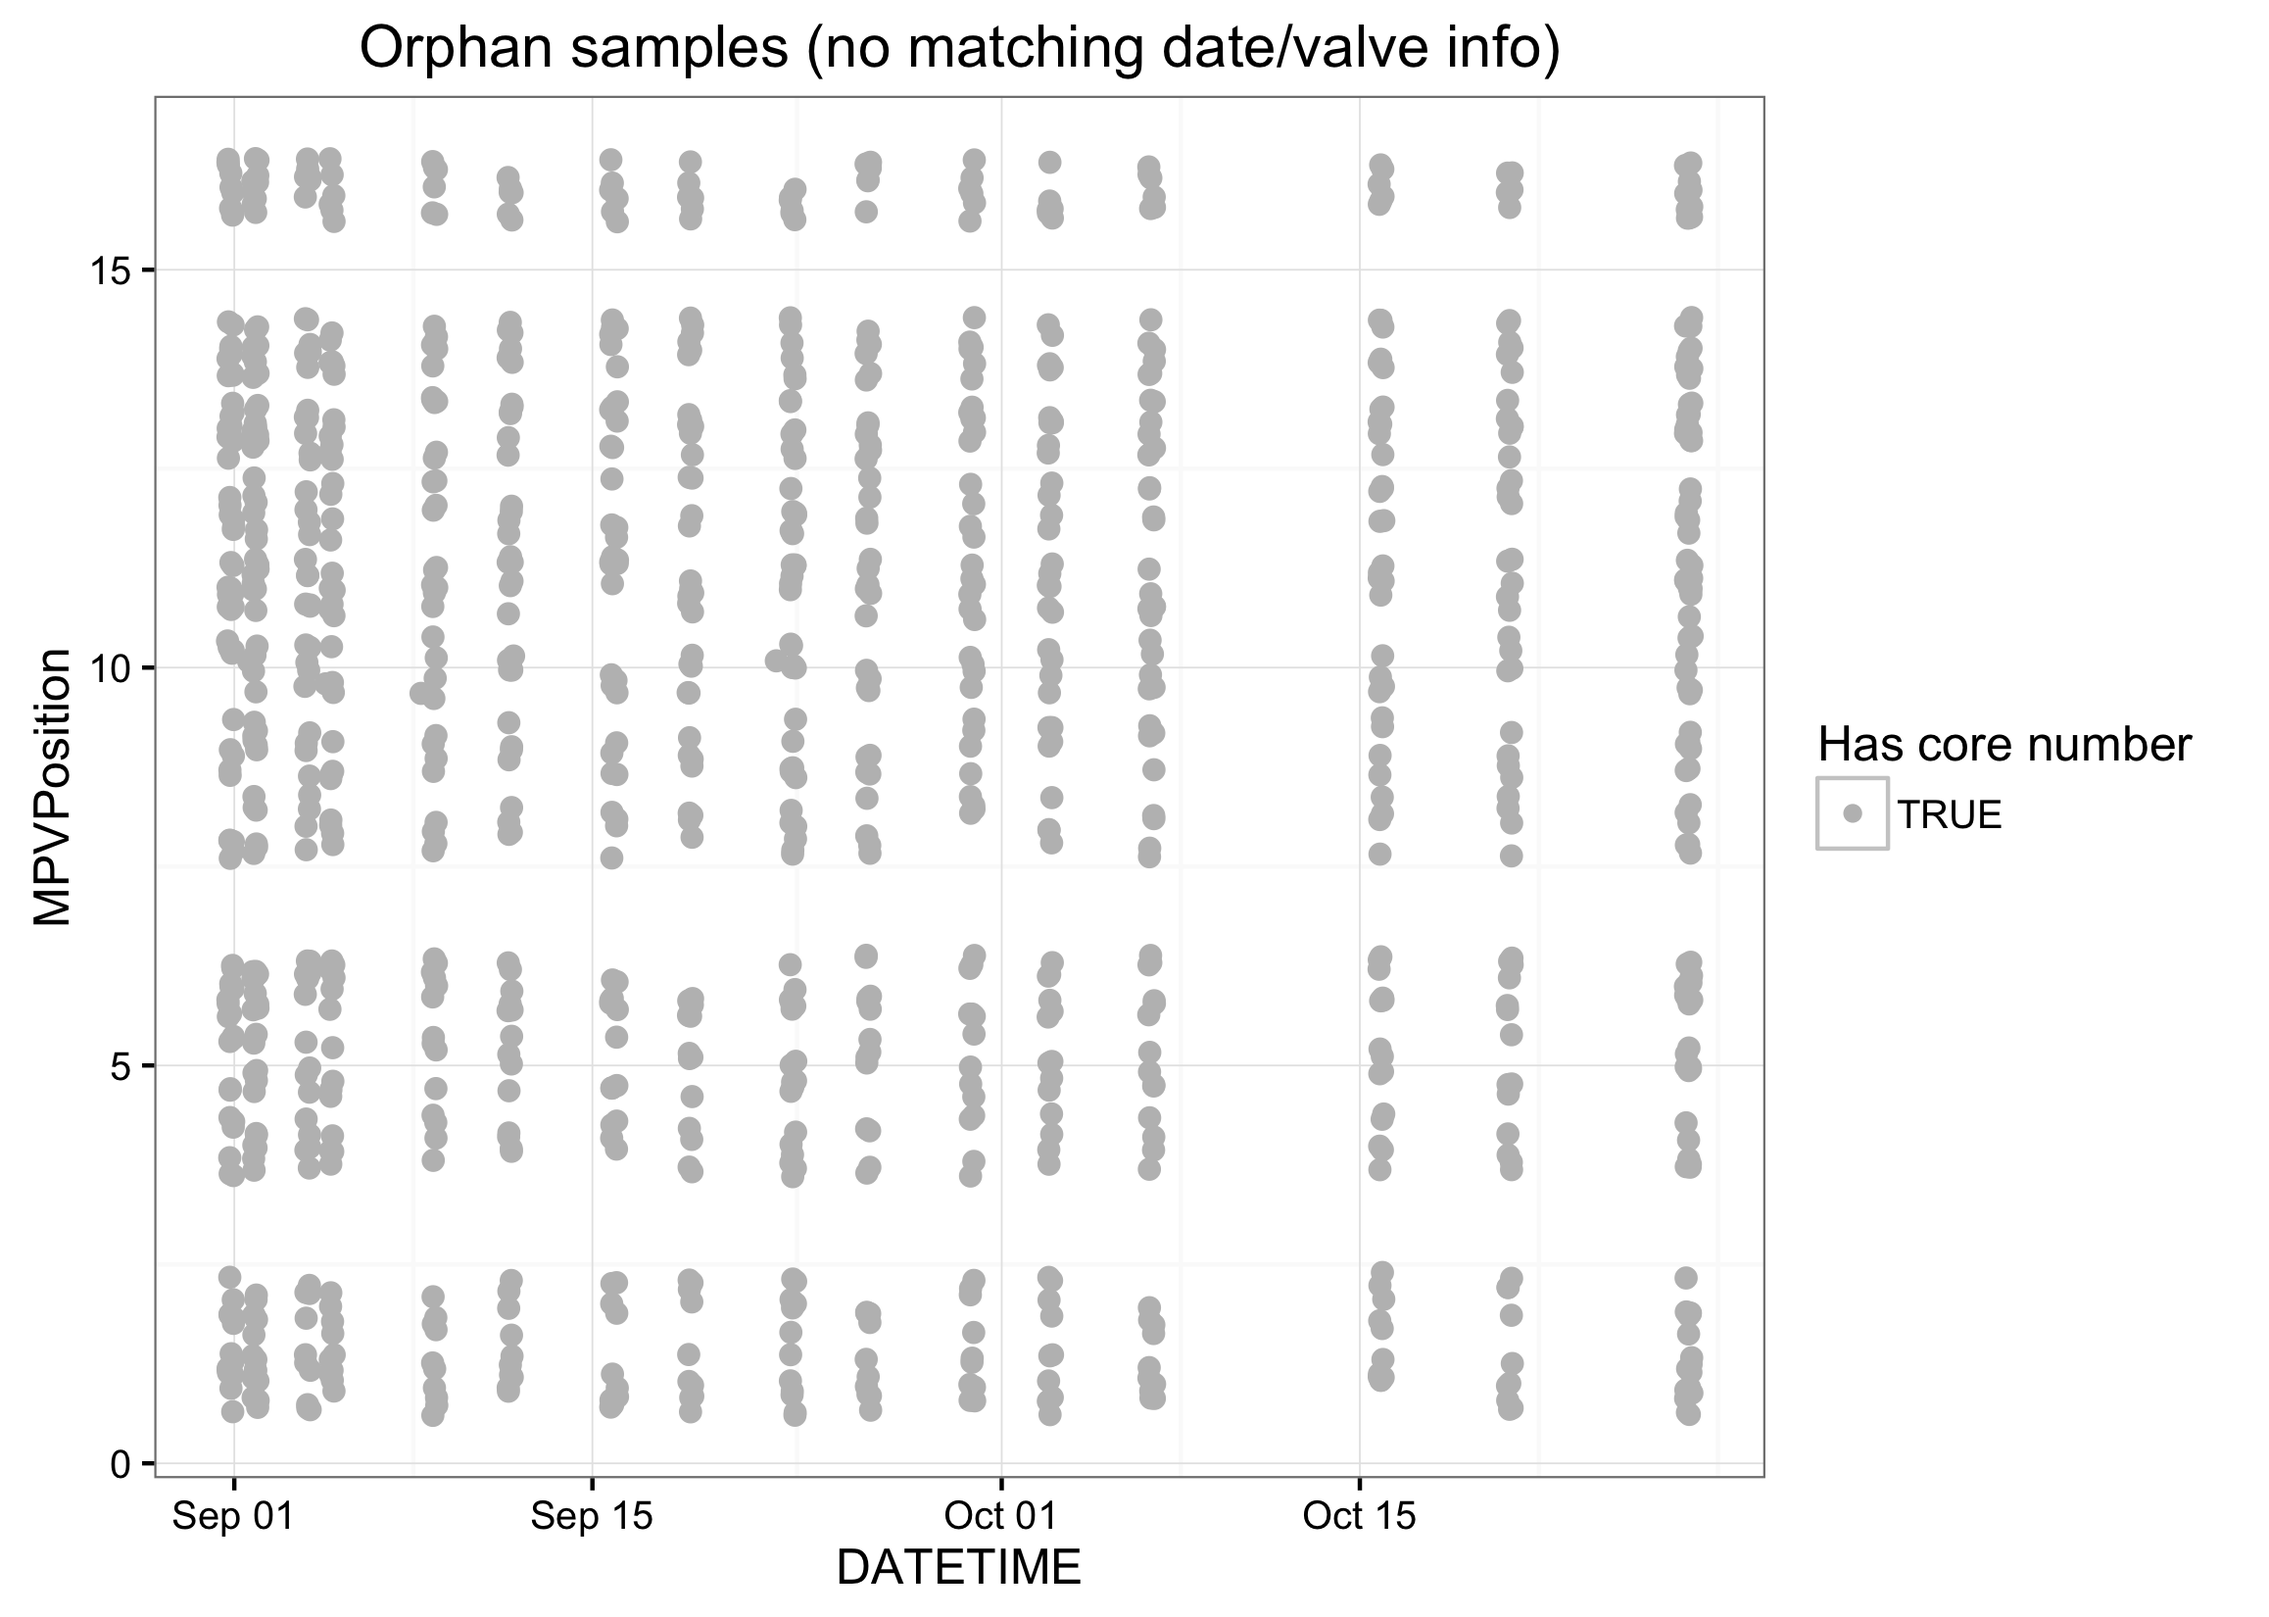
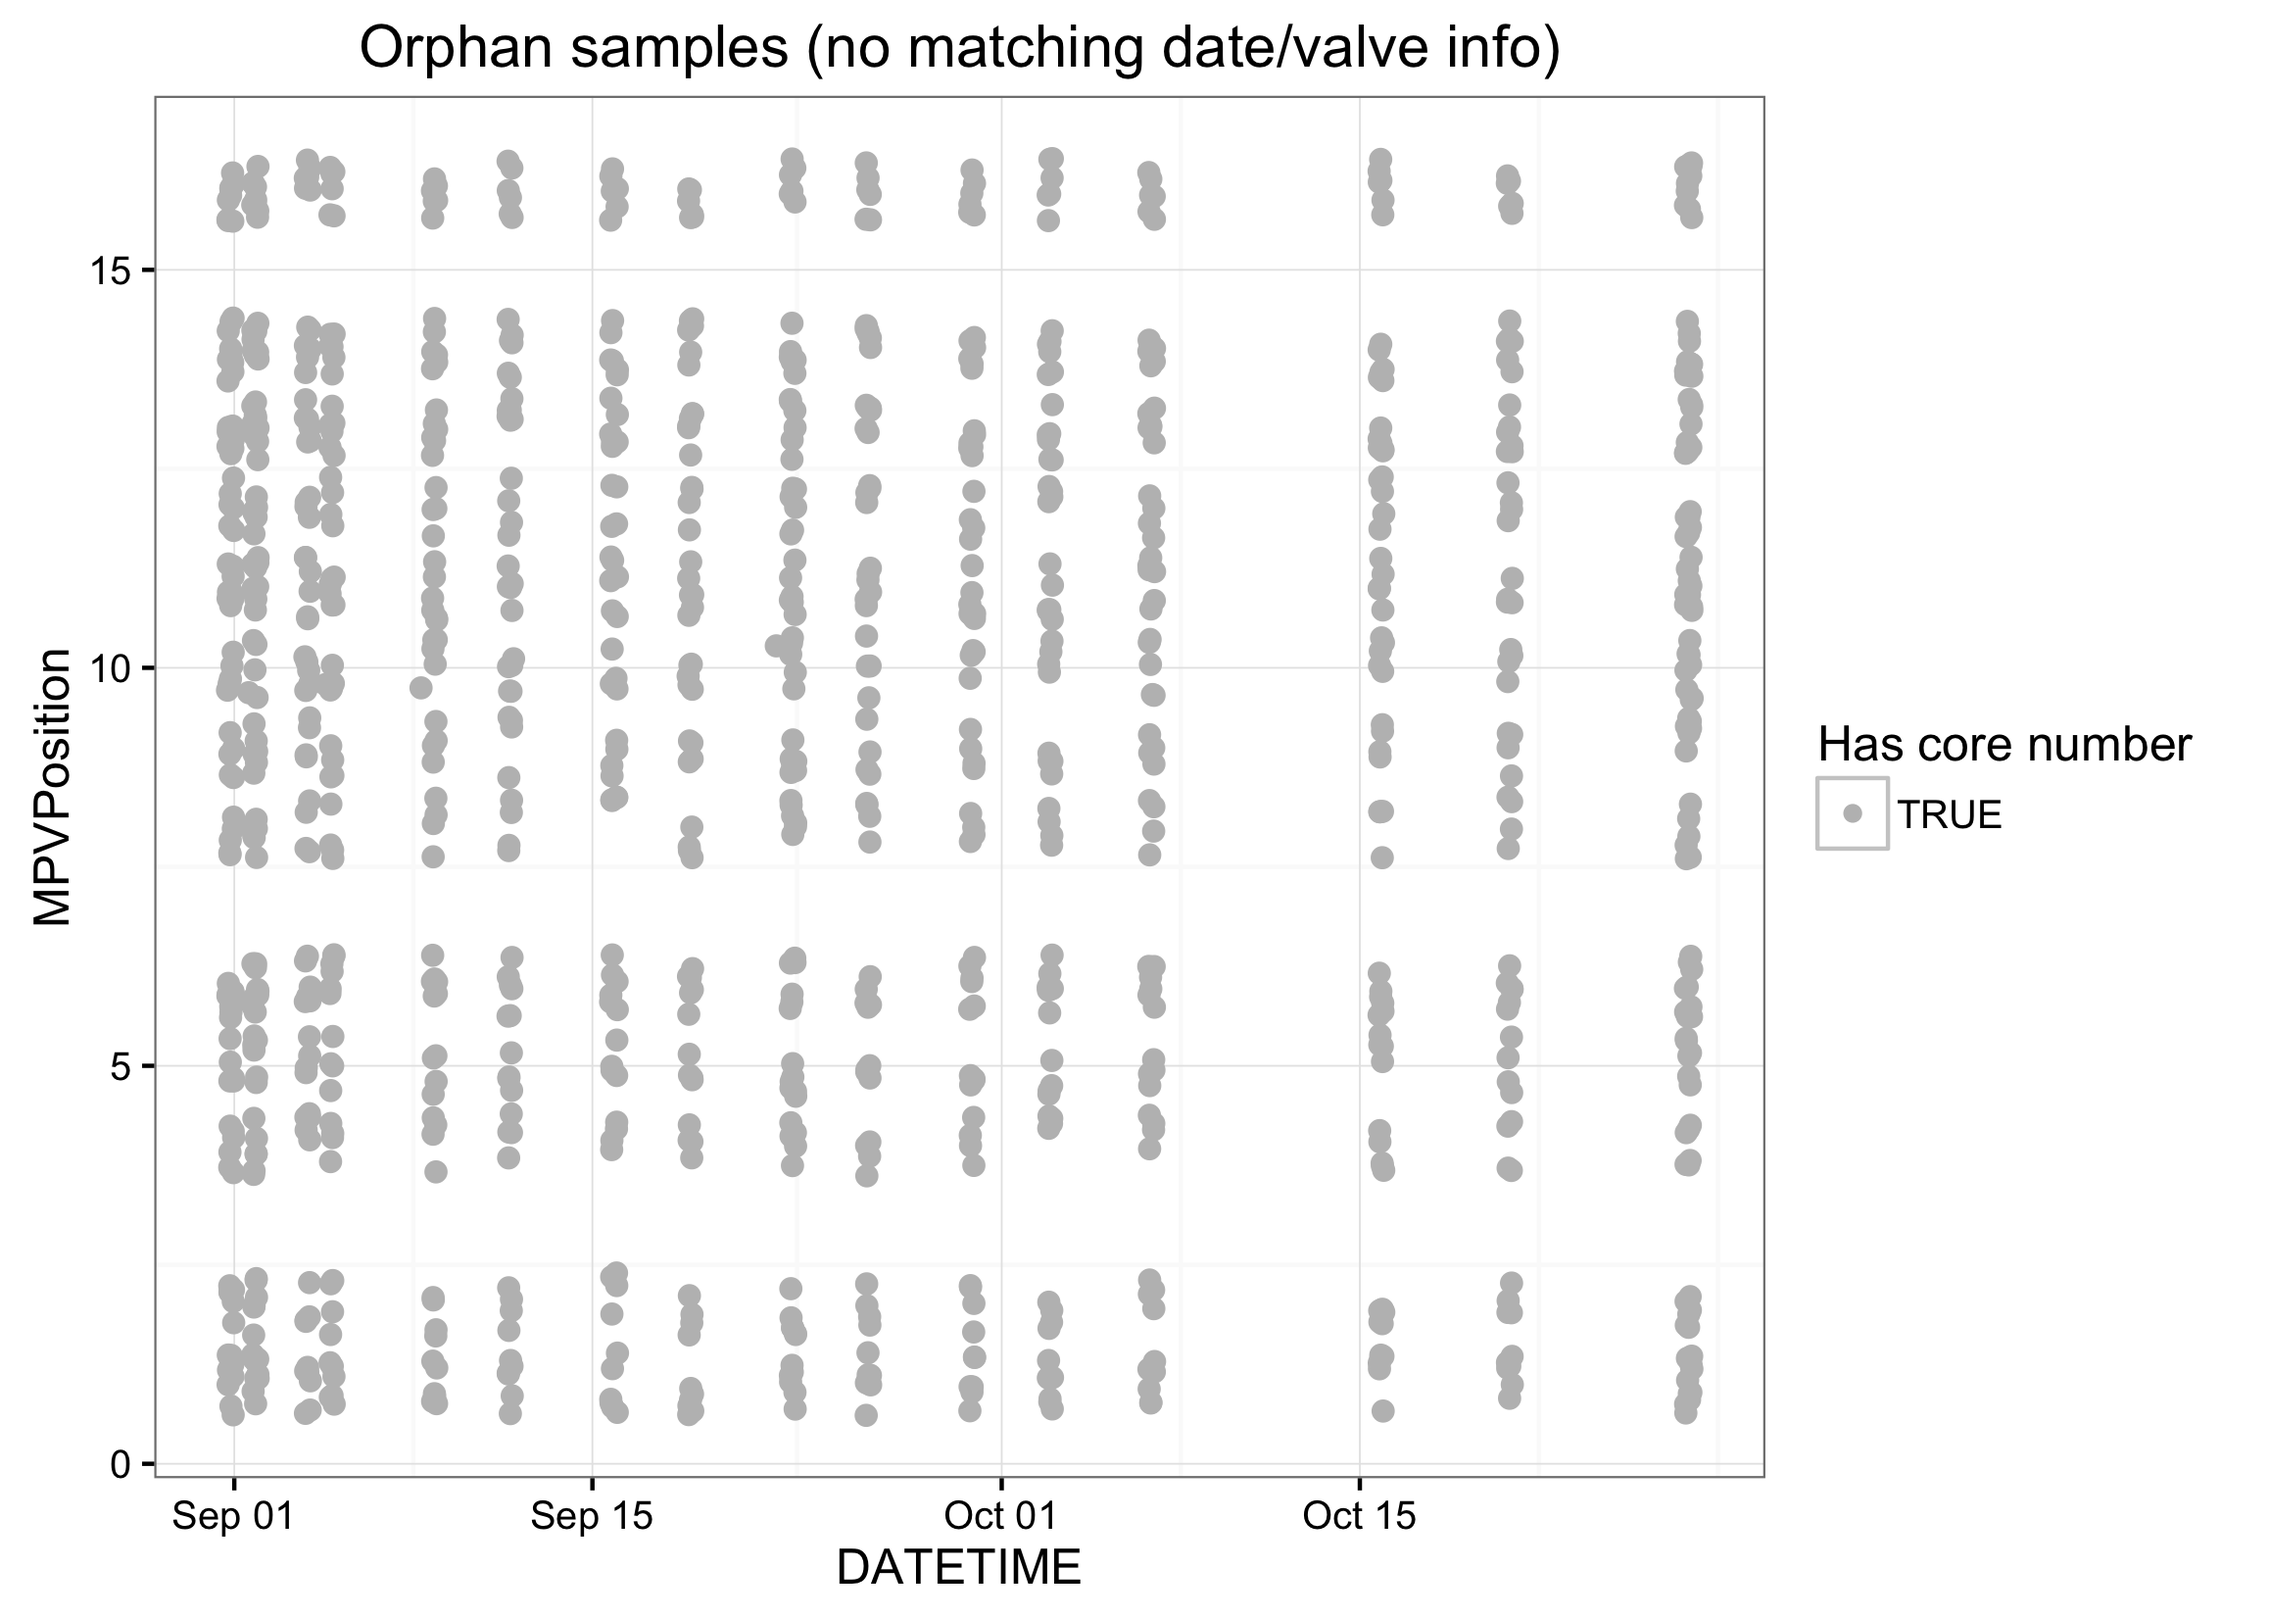
New relative mass diagnostic plot

diff --git a/README.md b/README.md
@@ -10,7 +10,7 @@ This work is funded by DOE's [Terrestrial Ecosystem Science Program](http://tes.
 
 Latest data: 2015-10-27 (incubation day 58)
 
-Script run: 2015-10-30 12:52:21
+Script run: 2015-10-31 06:44:28
 
 ### Missing/problematic data
 
@@ -23,6 +23,8 @@ Script run: 2015-10-30 12:52:21
 ### Observations over time
 
 ![](https://github.com/bpbond/cpcrw_incubation/blob/master/qc_plots/masses.png)
+
+![](https://github.com/bpbond/cpcrw_incubation/blob/master/qc_plots/masses_relative.png)
 
 ![](https://github.com/bpbond/cpcrw_incubation/blob/master/qc_plots/CO2_time.png)
 
